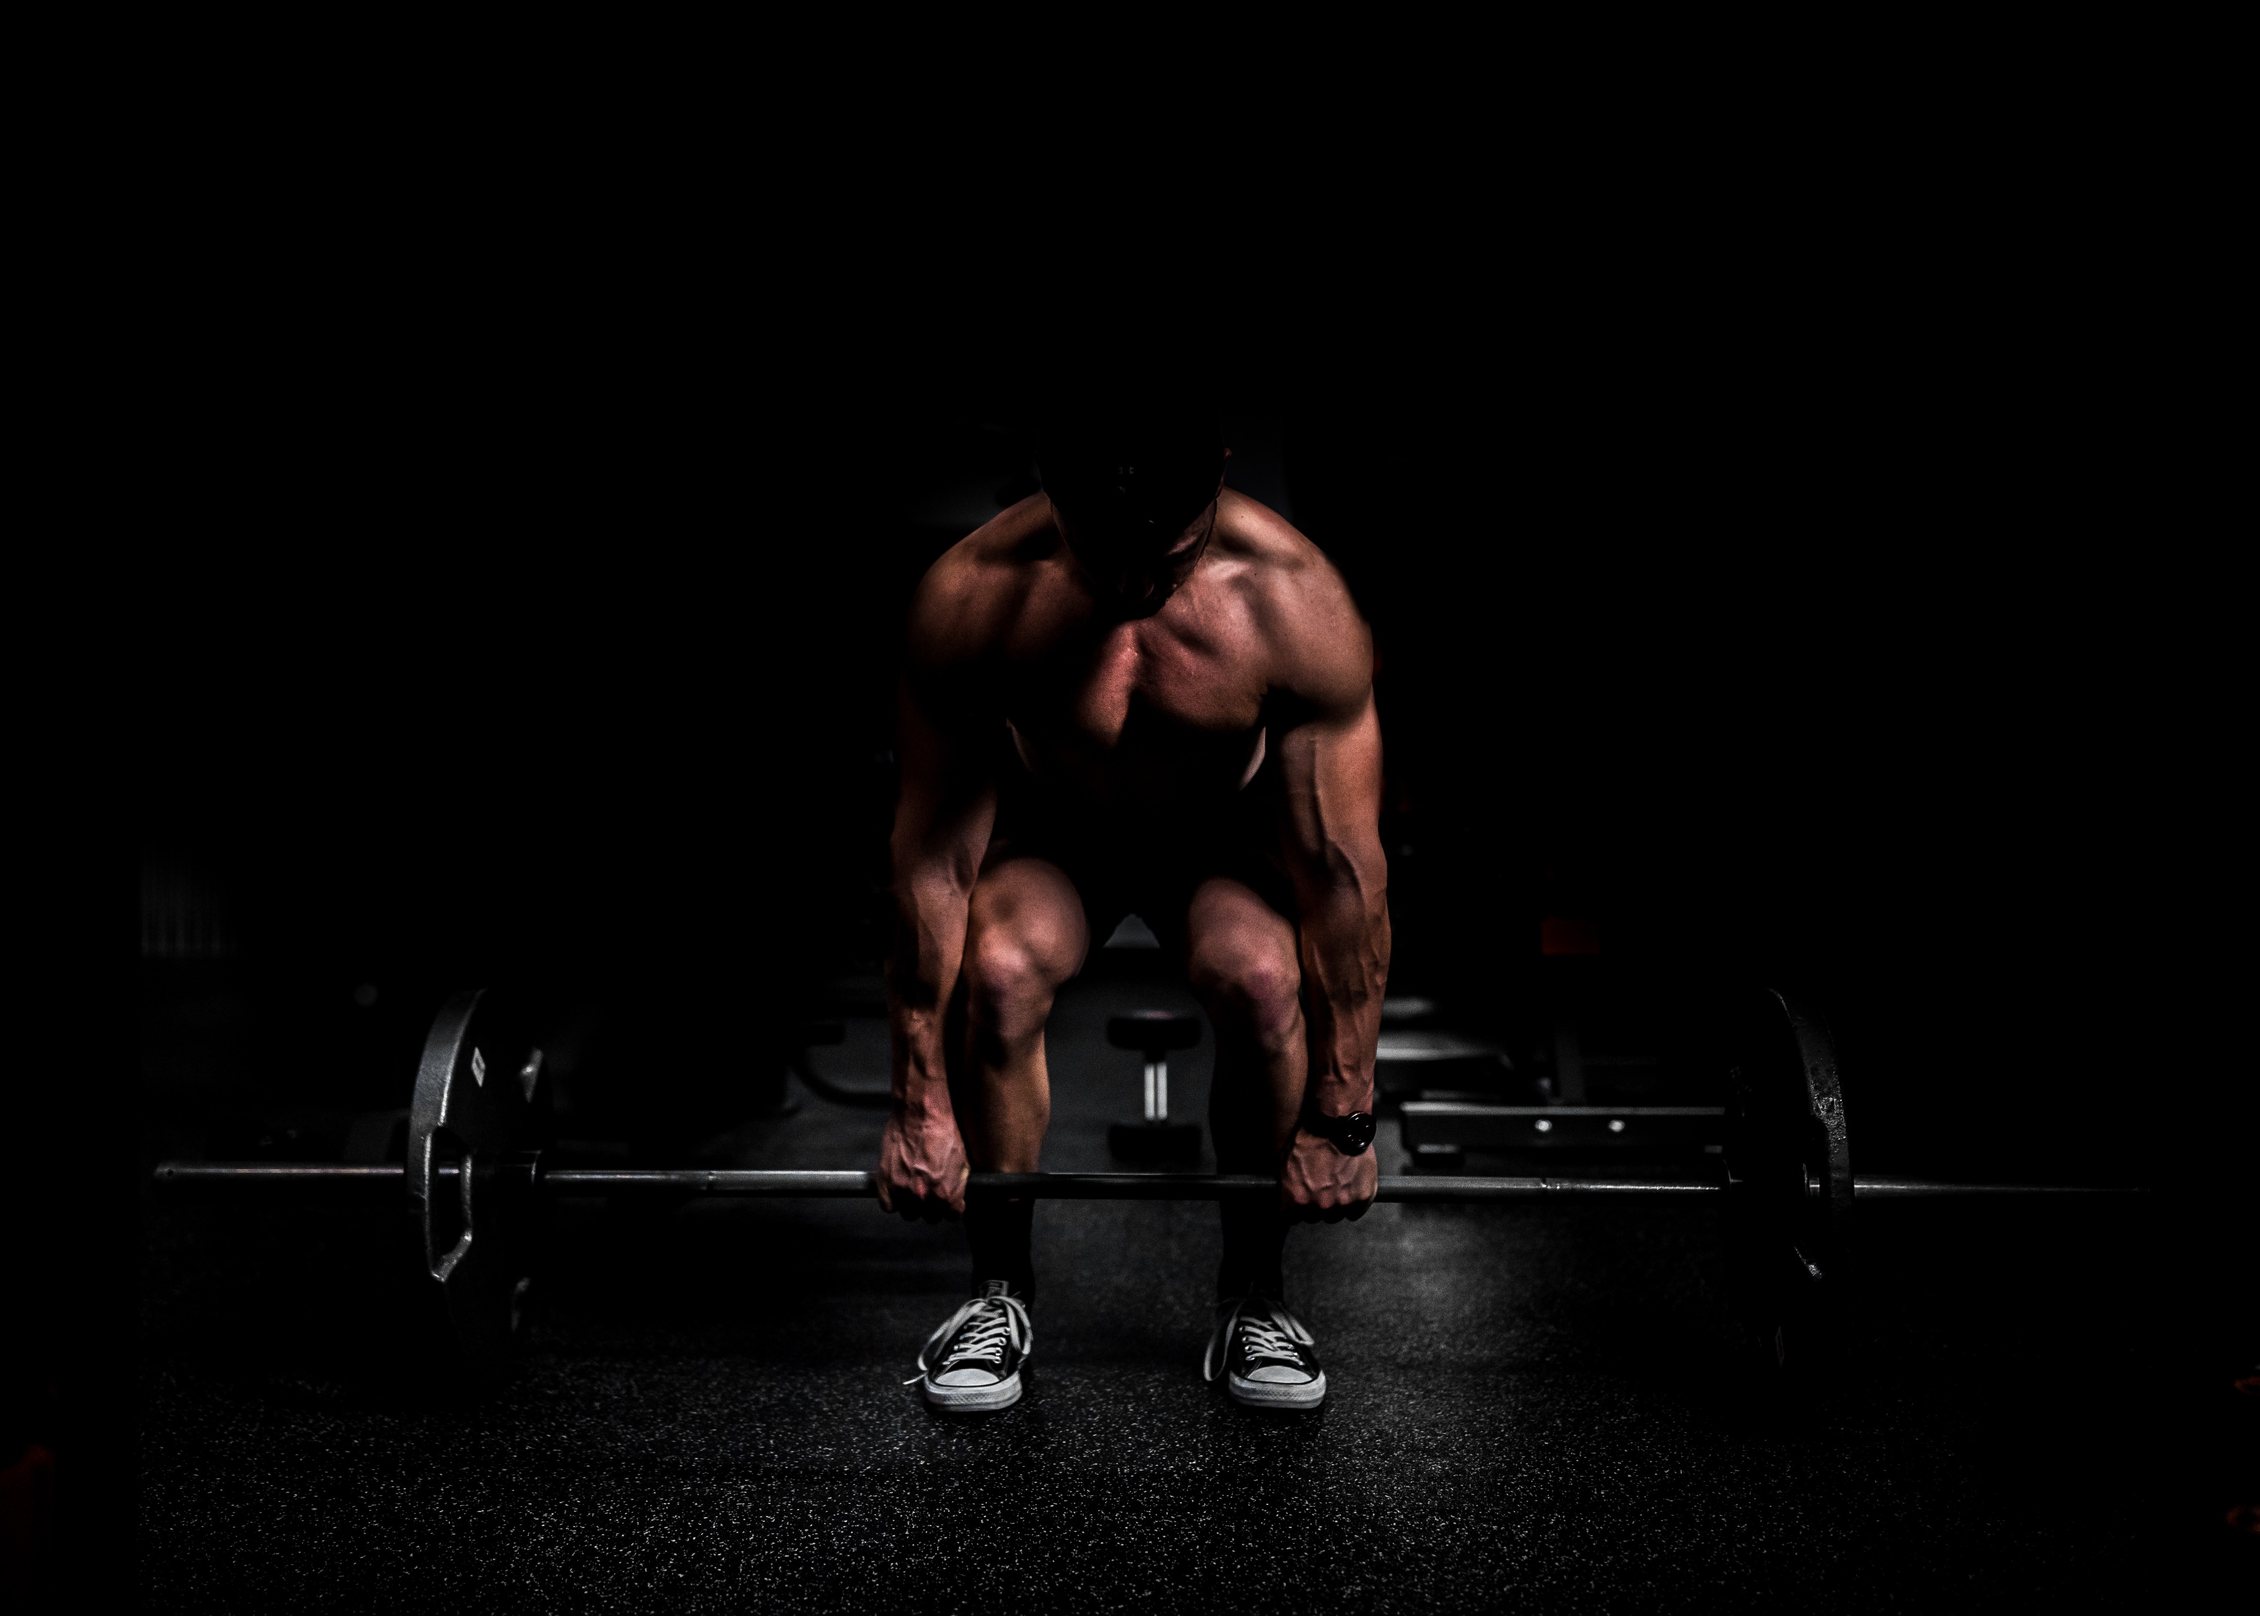
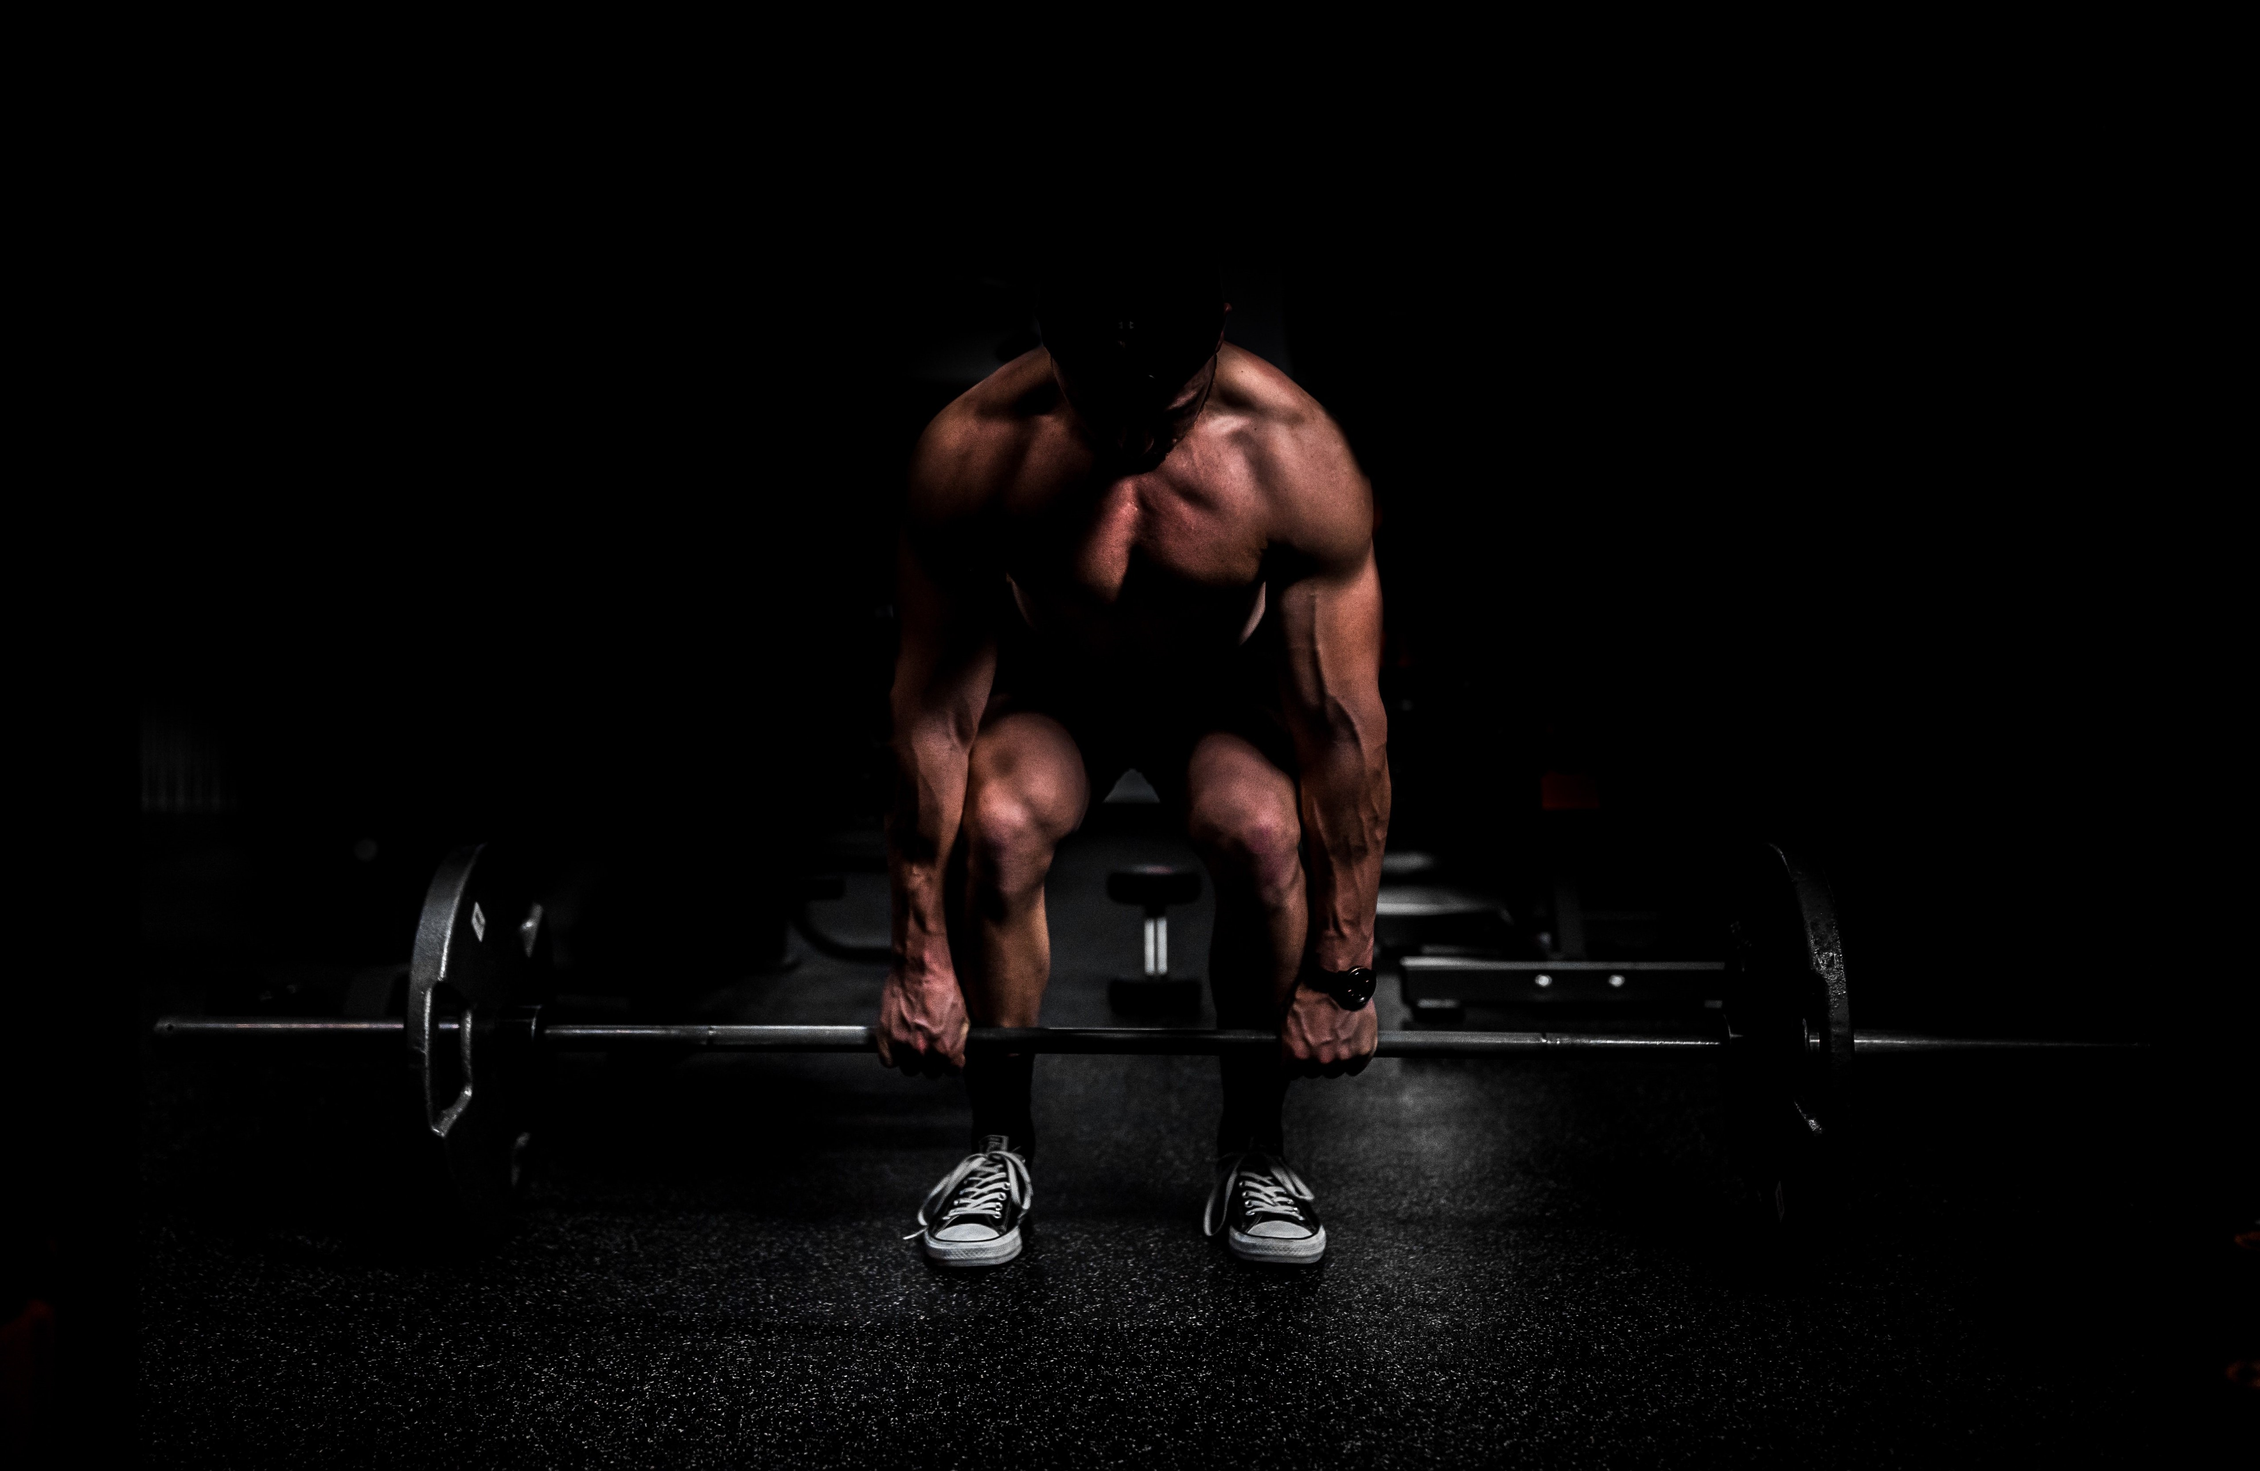
14/02/2025

Changed region(s): [[0.1559, 0.2172, 0.8729, 0.9928], [0.0624, 0.5895, 0.2494, 0.8066], [0.9976, 0.9307, 1.0, 0.9617]]

diff --git a/style.css b/style.css
@@ -16,7 +16,7 @@
 #hero {
     background-image: url('gym_bg.jpg');
     width: 101%;
-    height: 800px;
+    height: 785px;
     background-size: cover;
     background-repeat: no-repeat;
 	background-position: center;
